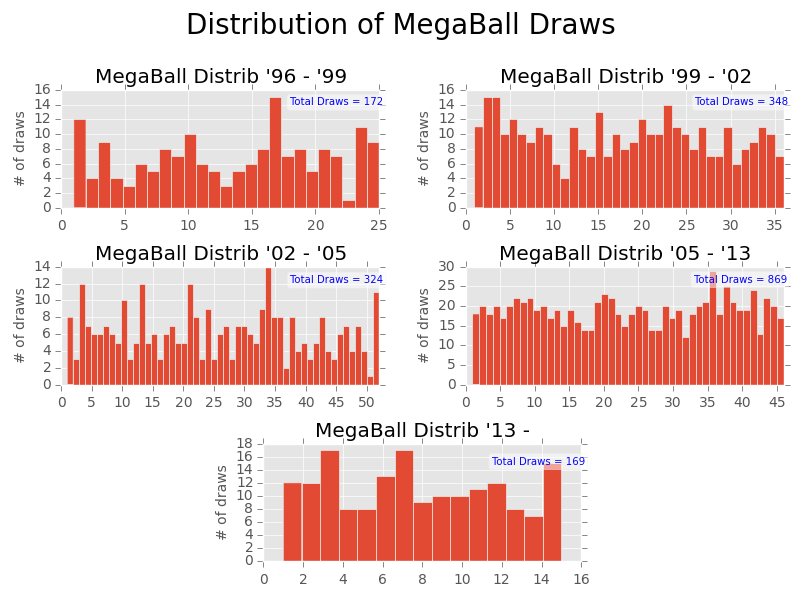
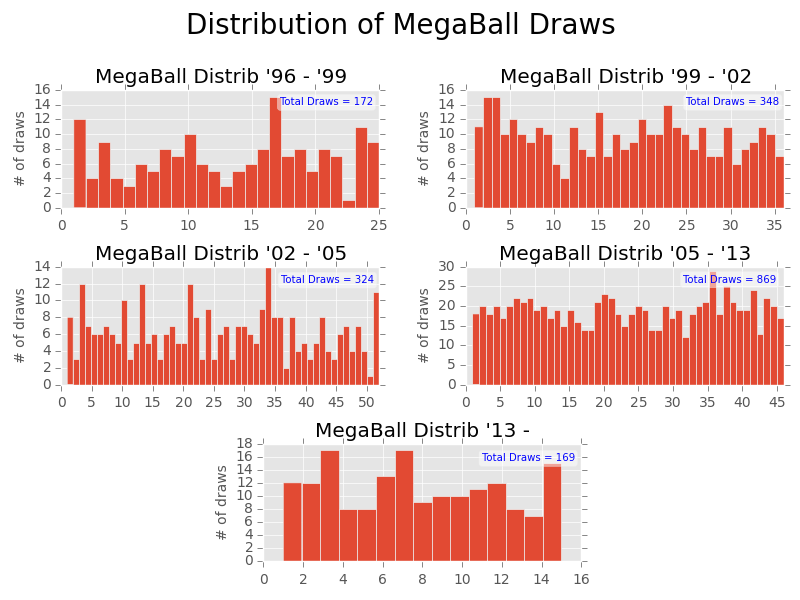
Basic Distribution Charts

diff --git a/megaball-Distribs.py b/megaball-Distribs.py
@@ -1,6 +1,4 @@
 
-# coding: utf-8
-
 import pandas as pd
 import numpy as np
 import matplotlib.pyplot as plt
@@ -47,7 +45,7 @@ plt.ylabel("# of draws", fontsize = 10)
 
 textstr = 'Total Draws = {0}'.format(len(firstperiod))
 props = dict(boxstyle='round', facecolor='white', alpha=0.5)
-ax1.text(18, 15, textstr, fontsize=7.25,
+ax1.text(17.25, 15, textstr, fontsize=7.25,
         verticalalignment='top', color="blue", bbox=props)
 
 
@@ -60,7 +58,7 @@ plt.ylabel("# of draws", fontsize = 10)
 
 textstr = 'Total Draws = {0}'.format(len(secondperiod))
 props = dict(boxstyle='round', facecolor='white', alpha=0.5)
-ax2.text(26, 15, textstr, fontsize=7.25,
+ax2.text(25, 15, textstr, fontsize=7.25,
         verticalalignment='top', color="blue", bbox=props)
 
 
@@ -74,7 +72,7 @@ plt.ylabel("# of draws", fontsize = 10)
 
 textstr = 'Total Draws = {0}'.format(len(thirdperiod))
 props = dict(boxstyle='round', facecolor='white', alpha=0.5)
-ax3.text(37.5, 13, textstr, fontsize=7.25,
+ax3.text(36, 13, textstr, fontsize=7.25,
         verticalalignment='top', color="blue", bbox=props)
 
 
@@ -87,7 +85,7 @@ plt.ylabel("# of draws", fontsize = 10)
 
 textstr = 'Total Draws = {0}'.format(len(fourthperiod))
 props = dict(boxstyle='round', facecolor='white', alpha=0.5)
-ax4.text(33, 28, textstr, fontsize=7.25,
+ax4.text(31.5, 28, textstr, fontsize=7.25,
         verticalalignment='top', color="blue", bbox=props)
 
 
@@ -99,7 +97,7 @@ plt.ylabel("# of draws", fontsize = 10)
 
 textstr = 'Total Draws = {0}'.format(len(fifthperiod))
 props = dict(boxstyle='round', facecolor='white', alpha=0.5)
-ax5.text(11.5, 16, textstr, fontsize=7.25,
+ax5.text(11, 16.5, textstr, fontsize=7.25,
         verticalalignment='top', color="blue", bbox=props)
 
 
@@ -110,5 +108,4 @@ plt.subplots_adjust(top = 0.85, wspace = 0.75, hspace = 0.5)
 
 plt.savefig("megaball_Distribs.png")
 plt.show()
-
 
